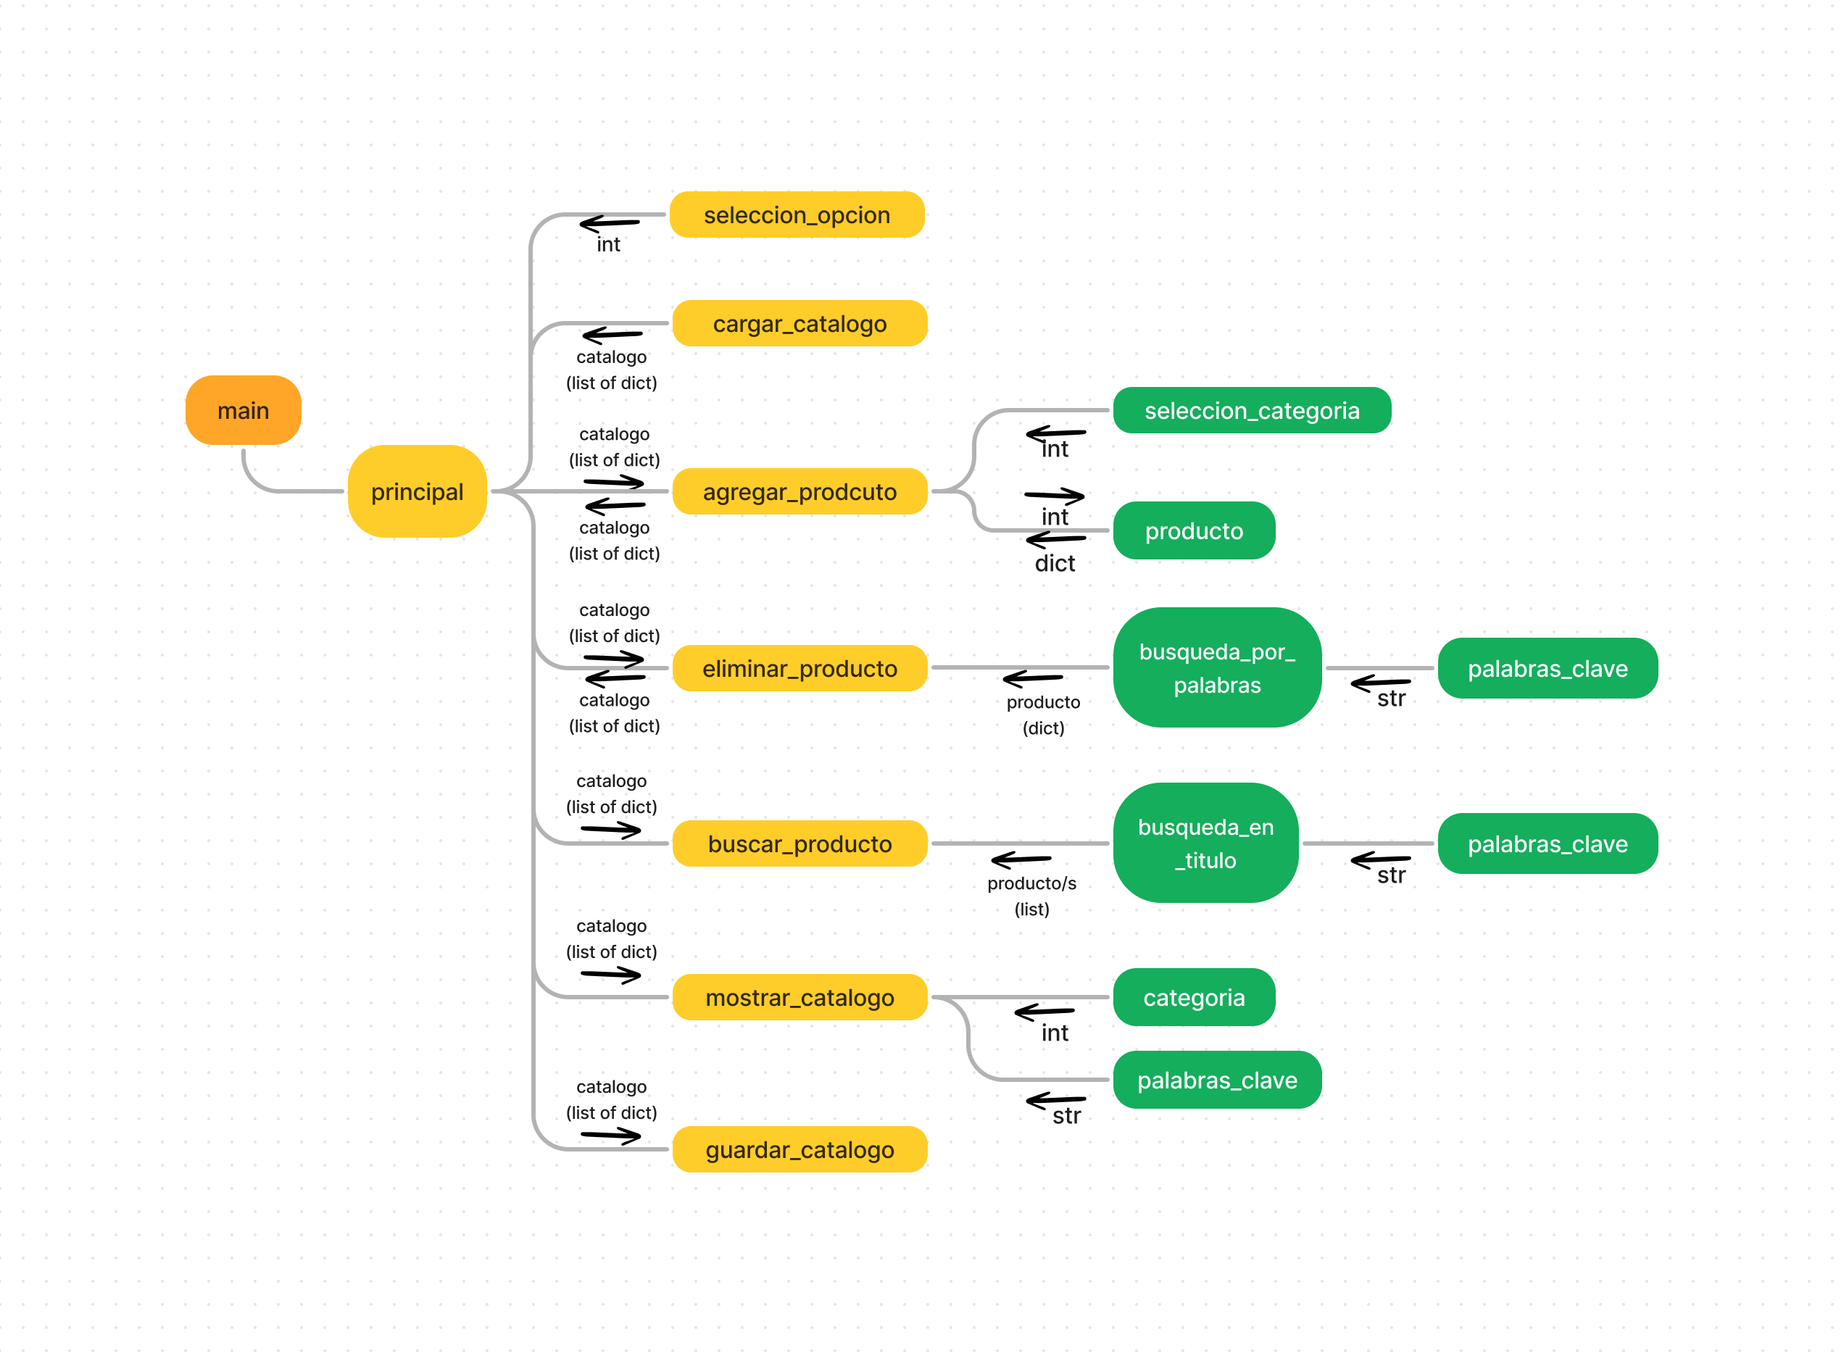
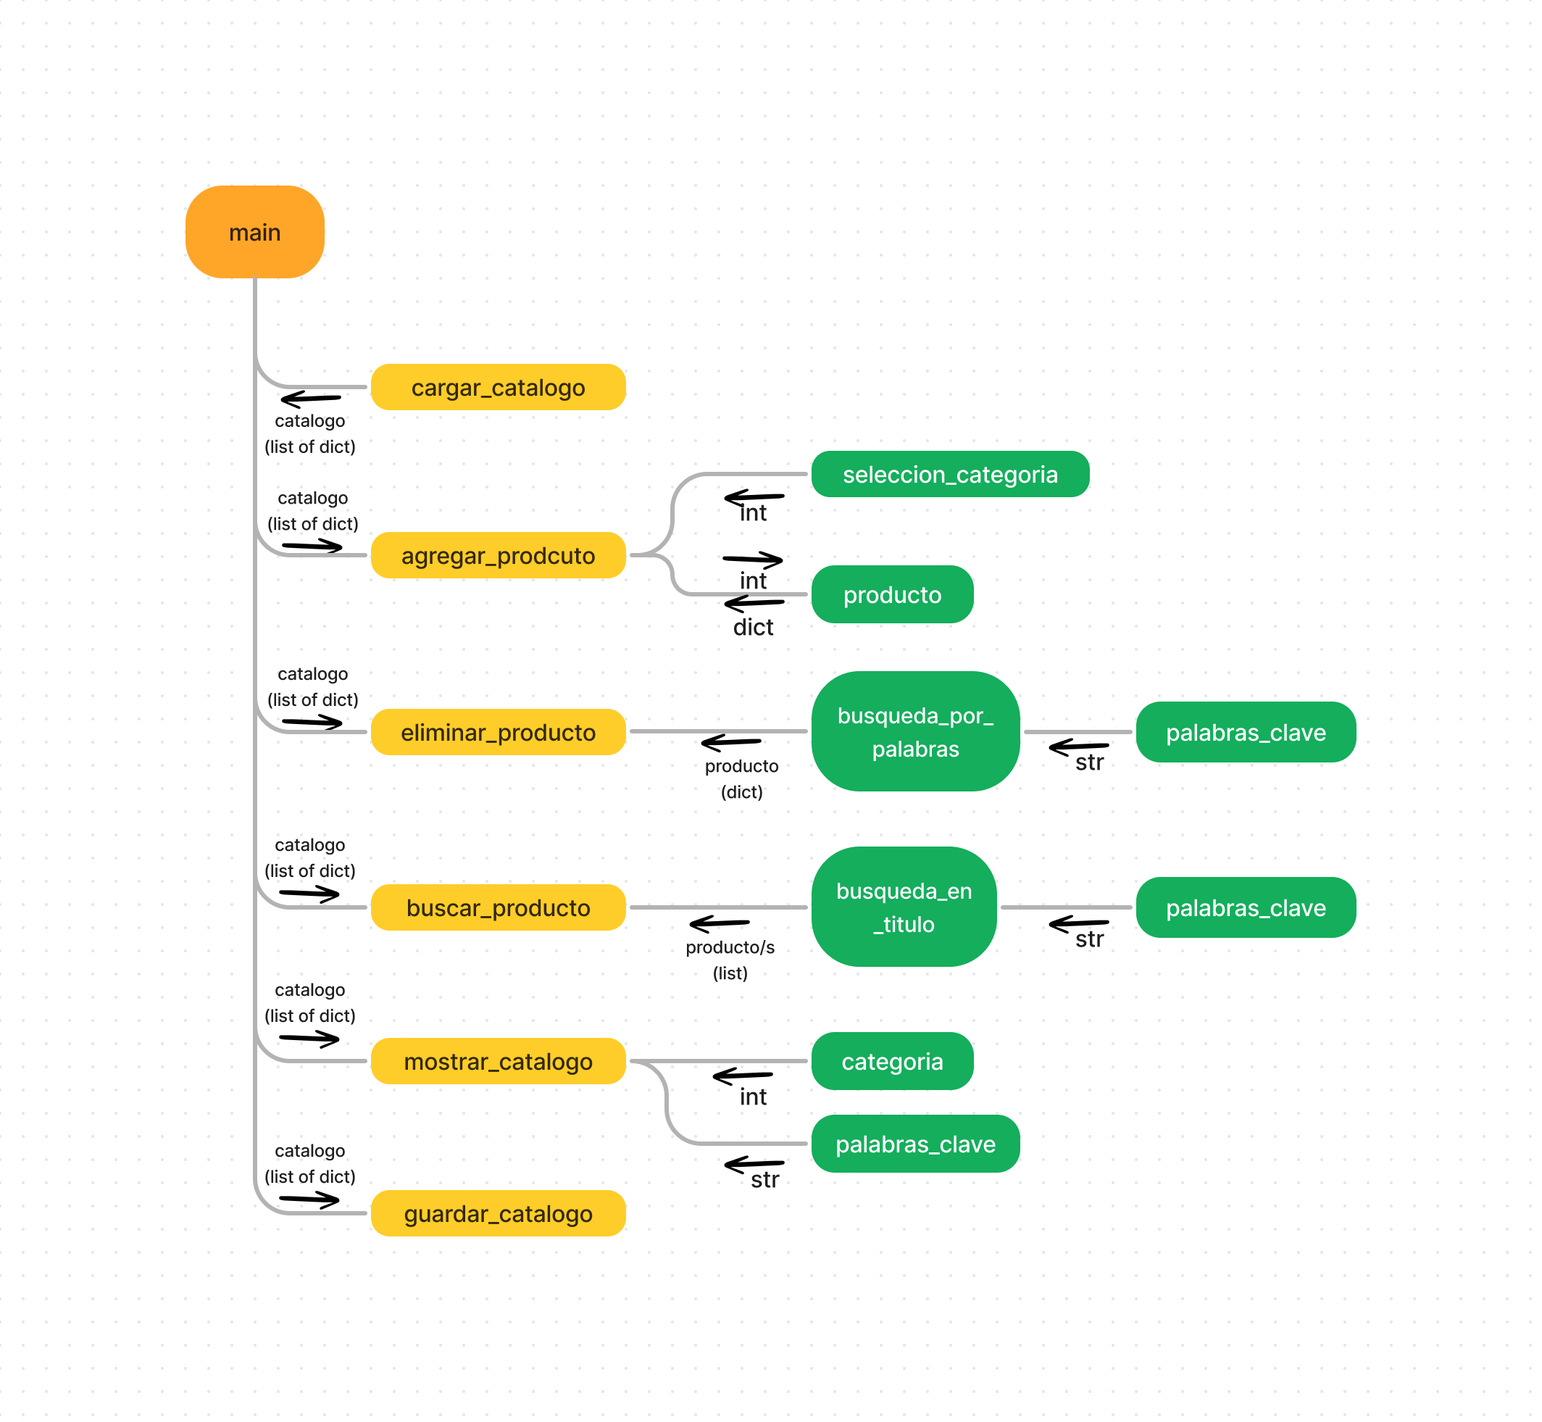
Second review

Changed region(s): [[0.093, 0.1238, 0.8994, 0.8975], [0.2791, 0.1238, 0.5273, 0.1857]]

diff --git a/menu.py b/menu.py
@@ -103,7 +103,7 @@ def agregar_producto(catalogo):
             catalogo = catalogo_utils.agregar_producto_catalogo(catalogo, valor_opcion, producto)
         else:
             # Si se selecciona la opción 5, vuelve al menú principal
-            principal()
+            return
     except Exception as e:
         # Captura y muestra cualquier excepción generada durante la ejecución
         print(str(e))
@@ -125,7 +125,7 @@ def eliminar_producto(catalogo):
         palabras_clave = input('Ingrese palabras clave separadas por espacios: ').split()
         # Obtiene una lista de todos los productos del catálogo utilizando la función obtener_lista_productos del módulo catalogo_utils
         lista_productos = catalogo_utils.obtener_lista_productos(catalogo)
-        # Busca y elimina productos utilizando la función buscar_serie_recursivo del módulo catalogo_utils
+        # Busca y elimina productos utilizando la función buscar_y_eliminar_prodcuto del módulo catalogo_utils
         catalogo_utils.buscar_y_eliminar_producto(lista_productos, palabras_clave, catalogo)
     except Exception as e:
         # Captura y muestra cualquier excepción generada durante la ejecución
@@ -167,7 +167,7 @@ def mostrar_catalogo(catalogo):
         seleccion, _ = seleccion_opciones(opciones)
         if seleccion == 6:
             # Si la opción seleccionada es 6, regresa al menú principal
-            principal()
+            return
         elif seleccion == 5:
             # Si la opción seleccionada es 5, muestra todos los productos del catálogo utilizando la función mostrar_productos() del módulo catalogo_utils
             catalogo_utils.mostrar_productos(catalogo)
@@ -208,43 +208,38 @@ def guardar_catalogo(catalogo):
     # Llama a la función del módulo catalogo_utils para guardar el catálogo en un archivo
     catalogo_utils.guardar_catalogo_archivo(catalogo)
 
-
-def principal(catalogo):
-    """
-        Menu principal el cual despliega las opciones de manipulacion de catalogo
-    """
-    while True:
-        # Obtiene las opciones del menú
-        opciones = opciones_menu(0)
-        # Muestra el título del menú "Menú Principal" y las opciones disponibles
-        plantilla_menu('Menú Principal', opciones)
-        # Permite al usuario seleccionar una opción
-        seleccion, _ = seleccion_opciones(opciones)
-        if seleccion == 1:
-            # Llama a la función agregar_producto(catalogo) si la opción seleccionada es 1
-            agregar_producto(catalogo)
-        elif seleccion == 2:
-            # Llama a la función buscar_producto(catalogo) si la opción seleccionada es 2
-            buscar_producto(catalogo)
-        elif seleccion == 4:
-            # Llama a la función mostrar_catalogo(catalogo) si la opción seleccionada es 4
-            mostrar_catalogo(catalogo)
-        elif seleccion == 3:
-            # Llama a la función eliminar_producto(catalogo) si la opción seleccionada es 3
-            eliminar_producto(catalogo)
-        elif seleccion == 5:
-            # Verifica si el catálogo ha sido cargado y llama a la función cargar_catalogo() si no ha sido cargado antes
-            if catalogo is None:
-                print('En caso de no contar con un archivo, por favor solo ponga el nombre deseado para crear uno.')
-                catalogo = cargar_catalogo()
-            else:
-                print('El catálogo ya ha sido cargado.')
-        elif seleccion == 6:
-            # Llama a la función guardar_catalogo(catalogo) para guardar el catálogo en un archivo
-            # Luego, imprime "Hasta luego" y finaliza el bucle
-            guardar_catalogo(catalogo)
-            print('Hasta luego')
-            break
-        elif seleccion == 7:
-            # Finaliza el bucle y termina la ejecución del programa si la opción seleccionada es 7
-            break
+liiiist = [
+    {'Pelicula': [
+        {'Titulo': 'Spider Man: de regreso a casa', 'Actor/a principal': '  Tom Holland.', 'Director/a': 'Jon Watts', 'Año': '2017', 'Costo Venta': '233', 'Costo Renta': '50'}, 
+        {'Titulo': 'Spider Man: Far From Home', 'Actor/a principal': 'Tom Holland.', 'Director/a': 'Jon Watts', 'Año': '2019', 'Costo Venta': '333', 'Costo Renta': '210'}, {'Titulo': 'Spider Man: No Way Home', 'Actor/a principal': 'Tom Holland', 'Director/a': 'Jon Watts', 'Año': '2020', 'Costo Venta': '661', 'Costo Renta': '211'}, 
+        {'Titulo': 'spider man into the spider-verse 2', 'Actor/a principal': 'Peter Ramsey', 'Director/a': 'Bob Persichetti', 'Año': '2023', 'Costo Venta': '1000', 'Costo Renta': '500'}, 
+        {'Titulo': 'guardianes de la galaxia', 'Actor/a principal': 'Peter Quill', 'Director/a': 'James Gunn', 'Año': '2023', 'Costo Venta': '700', 'Costo Renta': '455'}, 
+        {'Titulo': 'Shrek', 'Actor/a principal': 'Shrek', 'Director/a': 'Andrew Adamson', 'Año': '200', 'Costo Venta': '666', 'Costo Renta': '212'}
+        ]
+     }, 
+     {'Serie': [
+         {'Titulo': 'como si fuera a la primera ves', 'Actor/a principal': 'Adam Sandler', 'Director/a': 'Peter Segal', 'Temporadas': '5', 'Costo Venta': '1000', 'Costo Renta': '500'}, 
+         {'Titulo': 'Son como niños', 'Actor/a principal': 'Kevin James', 'Director/a': 'Dennis Dugan', 'Temporadas': '4', 'Costo Venta': '700', 'Costo Renta': '300'}, 
+         {'Titulo': 'Yo los Declaro Marido y Larry', 'Actor/a principal': 'Adam Sandler', 'Director/a': 'Dennis Dugan', 'Temporadas': '1', 'Costo Venta': '566', 'Costo Renta': '210'}, 
+         {'Titulo': 'Grimm', 'Actor/a principal': 'David Giuntoli', 'Director/a': 'Ever After High', 'Temporadas': '6', 'Costo Venta': '1000', 'Costo Renta': '500'}, 
+         {'Titulo': 'Sexo/Vida', 'Actor/a principal': 'Sarah Shahi', 'Director/a': 'Rotten Tomatoes', 'Temporadas': '2', 'Costo Venta': '800', 'Costo Renta': '400'}, 
+         {'Titulo': 'Chucky', 'Actor/a principal': 'Jennifer Tilly', 'Director/a': 'George Donald Mancini', 'Temporadas': '2', 'Costo Venta': '1000', 'Costo Renta': '500'}, 
+         {'Titulo': 'Stranger Things', 'Actor/a principal': 'Millie Bobby Brown', 'Director/a': 'Matt Duffer Ross Duffer Shawn Levy', 'Temporadas': '4', 'Costo Venta': '1000', 'Costo Renta': '500'}
+         ]
+      }, 
+      {'Documental': [
+          {'Titulo': 'Nuestro padre', 'Director/a': 'donald cline', 'Tema': 'medicina', 'Año': '2022', 'Costo Venta': '1000', 'Costo Renta': '500'}, 
+          {'Titulo': 'El estafador de Tinder', 'Director/a': 'Simon Leviev', 'Tema': 'casos de la vida real', 'Año': '2023', 'Costo Venta': '1000', 'Costo Renta': '500'}, 
+          {'Titulo': 'Hongos fantasticos', 'Director/a': 'Paul Stamets', 'Tema': 'drogadiccion', 'Año': '2020', 'Costo Venta': '700', 'Costo Renta': '300'}, 
+          {'Titulo': 'Misha y los lobos', 'Director/a': 'Misha Defonseca', 'Tema': 'informativo', 'Año': '2021', 'Costo Venta': '900', 'Costo Renta': '450'}, 
+          {'Titulo': 'La vida en la escuela', 'Director/a': 'axel juarez', 'Tema': 'casos de la vida real', 'Año': '2023', 'Costo Venta': '1000', 'Costo Renta': '500'}
+          ]
+       }, 
+       {'Evento deportivo en vivo': [
+           {'Titulo': 'UEFA Champions League ', 'Deporte': 'Fútbol', 'Fecha': '10/06/2023', 'Hora': '13:00', 'Lugar': 'paris', 'Costo Venta': '1000'}, 
+           {'Titulo': 'Super Bowl', 'Deporte': 'Fútbol Americano', 'Fecha': '10/09/2023', 'Hora': '14:00', 'Lugar': 'Estados unidos', 'Costo Venta': '1000'}, 
+           {'Titulo': 'Finales de la NBA', 'Deporte': 'Basketball', 'Fecha': '10/02/2023', 'Hora': '12:00', 'Lugar': 'Estados Unidos', 'Costo Venta': '1000'}, 
+           {'Titulo': 'Mundial de Fórmula 1', 'Deporte': 'Carreras', 'Fecha': '1/02/2023', 'Hora': '17:00', 'Lugar': 'italia', 'Costo Venta': '1000'}
+           ]
+        }
+    ]

diff --git a/catalogo.py b/catalogo.py
@@ -1,11 +1,47 @@
-import menu
+import menu as UserInterface
 catalogo = None
 
-def main():
-    # Se define catalogo como variable global para poder manejar el catalogo a lo largo de la ejecucion del programa
-    global catalogo 
-    # Se llama a la función principal del módulo "menu"
-    menu.principal(catalogo)
 
-# Llama a la función main para iniciar el programa
+def main():
+    """
+        Menu principal el cual despliega las opciones del programa (agregar/eliminar/buscar un prodcuto y mostrar/cargar/guardar un catalogo)
+    """
+    global catalogo
+    while True:
+        # Obtiene las opciones del menu
+        opciones = UserInterface.opciones_menu(0)
+        # Muestra el titulo del menu "Menu Principal" y las opciones disponibles
+        UserInterface.plantilla_menu('Menú Principal', opciones)
+        # Permite al usuario seleccionar una opcion
+        seleccion, _ = UserInterface.seleccion_opciones(opciones)
+        if seleccion == 1:
+            #Llama a la funcion agregar_producto(catalogo) si la opcion seleccionada es 1
+            UserInterface.agregar_producto(catalogo)
+        elif seleccion == 2:
+            # Llama a la función buscar_producto(catalogo) si la opción seleccionada es 2
+            UserInterface.buscar_producto(catalogo)
+        elif seleccion == 3:
+            # Llama a la función eliminar_producto(catalogo) si la opción seleccionada es 3
+            UserInterface.eliminar_producto(catalogo)
+        elif seleccion == 4:
+            # Llama a la función mostrar_catalogo(catalogo) si la opción seleccionada es 4
+            UserInterface.mostrar_catalogo(catalogo)
+        elif seleccion == 5:
+            # Verifica si el catálogo ha sido cargado y llama a la función cargar_catalogo() si no ha sido cargado antes
+            if catalogo is None:
+                print('En caso de no contar con un archivo, por favor solo ponga el nombre deseado para crear uno.')
+                catalogo = UserInterface.cargar_catalogo()
+            else:
+                print('El catálogo ya ha sido cargado.')
+        elif seleccion == 6:
+            # Llama a la función guardar_catalogo(catalogo) para guardar el catálogo en un archivo
+            # Luego, imprime "Hasta luego" y finaliza el bucle
+            UserInterface.guardar_catalogo(catalogo)
+            print('Hasta luego')
+            break
+        elif seleccion == 7:
+            # Finaliza el bucle y termina la ejecución del programa si la opción seleccionada es 7
+            break
+
+
 main()

diff --git a/catalogo_utils.py b/catalogo_utils.py
@@ -162,7 +162,7 @@ def agregar_prodcuto_catalogo(catalogo, categoria, producto):
             item[categoria].append(producto)
             # Detener la búsqueda una vez que se ha agregado el producto
             break
-    return catalogo # Devolver el catálogo actualizado
+    return
 
 
 def formato_impresion_producto(producto):
@@ -214,7 +214,6 @@ def obtener_lista_productos(catalogo):
         for productos in categoria.values():
             # Agregar los productos a la lista_productos
             lista_productos.extend(productos)
-    # Devolver la lista de productos
     return lista_productos
 
 

diff --git a/README.md b/README.md
@@ -4,7 +4,8 @@
 
 ## Descripcion General del Proyecto
 
-El presente proyecto tiene como objetivo principal actualizar el sistema de renta y venta de un servicio de streaming. Se requiere desarrollar un programa que permita una interaccion eficiente y sencilla que permitan la manipulacion del catalogo de productos.
+El presente proyecto tiene como objetivo principal actual
+izar el sistema de renta y venta de un servicio de streaming. Se requiere desarrollar un programa que permita una interaccion eficiente y sencilla que permitan la manipulacion del catalogo de productos.
 
 El sistema proporcionara una serie de menus que faciliten la manipulacion y gestion de los catalogos de produtos. Quien acceda al sistema podran acceder a algun catalogo, agregar/eliminar productos, realizar una busquedas y visualizar informacion detallada sobre los productos
 
@@ -30,21 +31,91 @@ Algunas de las funcionalidades del programa incluyen la carga inicial del catalo
 
 ## Funciones
 
-Click [aqui](./funciones.md) para ir a las funciones
+La funcion principal o _main()_ se encuentra alojada en el script 'catalogo.py'.
+
+En este mismo script se importa el modulo de *menu* que maneja toda la interfaz del sistema y este mismo conecta con el modulo *catalogo_utils* que se encarga del funcionamiento de la manipulacion del catalogo.
+
+Se inicializa el catalogo en None
+
+  ```python
+    import menu as UserInterface
+
+    catalogo = None
+  ```
+
+### _**main()**_
+
+La funcion main es la que va a dar inicio a todo el programa siendo esta la que despliega el menu principal
+
+Se establece la variable catalogo global, con ello se permite su manipulacion a lo largo de la ejecucion del programa ademas de que al inicio de cada ejecucion del programa se pueda verificar si hay un catalogo cargado en el sistema.
+
+  ```python
+    def main():
+      global catalogo
+      while True:
+          # Obtiene las opciones del menu
+          opciones = UserInterface.opciones_menu(0)
+          # Muestra el titulo del menu "Menu Principal" y las opciones disponibles
+          UserInterface.plantilla_menu('Menú Principal', opciones)
+          # Permite al usuario seleccionar una opcion
+          seleccion, _ = UserInterface.seleccion_opciones(opciones)
+          if seleccion == 1:
+              #Llama a la funcion agregar_producto(catalogo) si la opcion seleccionada es 1
+              UserInterface.agregar_producto(catalogo)
+          elif seleccion == 2:
+              # Llama a la función buscar_producto(catalogo) si la opción seleccionada es 2
+              UserInterface.buscar_producto(catalogo)
+          elif seleccion == 3:
+              # Llama a la función eliminar_producto(catalogo) si la opción seleccionada es 3
+              UserInterface.eliminar_producto(catalogo)
+          elif seleccion == 4:
+              # Llama a la función mostrar_catalogo(catalogo) si la opción seleccionada es 4
+              UserInterface.mostrar_catalogo(catalogo)
+          elif seleccion == 5:
+              # Verifica si el catálogo ha sido cargado y llama a la función cargar_catalogo() 
+              # si no ha sido cargado antes
+              if catalogo is None:
+                  print('En caso de no contar con un archivo, por favor solo ponga el nombre deseado para crear uno.')
+                  catalogo = UserInterface.cargar_catalogo()
+              else:
+                  print('El catálogo ya ha sido cargado.')
+          elif seleccion == 6:
+              # Llama a la función guardar_catalogo(catalogo) para guardar el catálogo en un archivo
+              # Luego, imprime "Hasta luego" y finaliza el bucle
+              UserInterface.guardar_catalogo(catalogo)
+              print('Hasta luego')
+              break
+          elif seleccion == 7:
+              # Finaliza el bucle y termina la ejecución del programa si la opción seleccionada es 7
+              break
+  ```
+Click [aqui](./funciones.md) ver las demas funciones de los modulos.
 
 ## Intruciones de uso
 
 1. Para hacer uso del sistema de catalogos, solo es necesario tener python instalado en el sistema, y tener descargados los archivos del repositorio
 2. Para iniciar el programa se abre la terminal donde se encuentran los archivos de este repositorio y escribir:
 
-    ```cmd
+  ```cmd
     py catalogo.py
-    ```
+  ```
 
 3. Una vez desplegado el menu principal, se tiene que cargar el archivo donde se encuentre el catalogo, esto escogiendo la opcion no.5 (De lo contrario no se podra accesar a las opciones de manipulacion de catalogo).
    <sub>Nota. El programa puede crear un achivo nuevo con un catalogo vacio si es que no se cuenta con uno.</sub>
-5. Para hacer uso de la manipulacion y control del catalogo basta con escoger una opcion(agregar,eliminar, mostrar catalogo, buscar) para despues seguir las instrucciones que el sistema pida.
-6. Una vez terminada la manipulacion del catalogo, se tendran que guardar los cambios hechos seleccionando la opcion no.6 del menu principal.
+4. Para hacer uso de la manipulacion y control del catalogo solo es necesaio escoger una opcion(agregar,eliminar, mostrar catalogo, buscar) para despues seguir las instrucciones que el sistema pida.
+5. Una vez terminada la manipulacion del catalogo, se tendran que guardar los cambios hechos seleccionando la opcion no.6 del menu principal.
+
+### Catalogo prueba almacenado en *catalogo_prueba.txt*
+
+| **Peliculas**                       | **Series**                    | **Documentales**       | **Eventos deportivos en vivo** |
+|-------------------------------------|-------------------------------|------------------------|--------------------------------|
+| Spider Man: De regreso a casa       | Como si fuera la primera vez  | Nuestro Padre          | UEFA Champions League          |
+| Spider Man: Far From Home           | Son como niños                | El estafador de Tinder | Super Bowl                     |
+| Spider Man: No Way Home             | Yo los declaro Marido y Larry | Hongos Fantasticos     | Finales de la NBA              |
+| Spider Man: Into the spider-verse 2 | Grimm                         | Misha y los lobos      | Mundial de Formula 1           |
+| Guardianes de la Galaxia            | Sexo/Vida                     | La vida en la escuela  |                                |
+| Sherk                               | Chucky                        |                        |                                |
+|                                     | Stranger Things               |                        |                                |
 
 ## Comentarios sobre la implementacion
 
@@ -57,8 +128,10 @@ El programa satisface los requerimentos, aunque hay ciertas excepciones y limita
 - El sistema trabaja con un catalgo y estrucutra especifica para todos los productos, si se deseara expandir el catalogo para incluir mas categorias, se tienen que hacer varias modificaciones adicionales para que se pueda escalar.
 
 En cuanto a caracteristicas del programa, ademas de contar con las opciones de manipulacion de catalogo, el sistema cuenta con algunos agregados como:
+
 - Verificacion de catalogo cargado: Esta caracteristica no deja escoger alguna opcion para la manipulacion del catalogo hasta que se carge uno, y esto fue asi por la siguiente implementacion.
 - Estructura de datos: Para que el sistema pueda funcionar, el archivo con el que se inicie un catalogo debe de tener la estrucutra que maneja el catalogo, debido a esto es que se implemento en la funcion de cargar catalogo la creacion un archivo vacio(si es que no se cuenta con uno) con un catalogo vacio para poder usar el programa adeacuadamente
+
 ### Respecto a la implementacion
 
 Para la implementacion fue de gran ayuda un diagrama de estrcutura tan sencillo, aunque durante la creacion de los modulos y las funciones, para dejar mas manejable el codigo se tuvieron que crear muchas mas funciones que en escencia se entienden que pasan en el diagrama, pero en la implementacion resultaba mas facil separar el codigo en partes aun mas pequenas.

diff --git a/funciones.md b/funciones.md
@@ -355,27 +355,4 @@
 
           - catalogo (list): Catálogo de productos.
 
-      No regresa ningun valor
-
-- ### _**principal**_
-
-          Menu principal el cual despliega las opciones de manipulacion de catalogo
-
-      _Argumentos:_
-
-          catalogo (list): Catálogo de productos.
-
-      No regresa ningun valor
-
-- ## Catalogo
-
-  Se inicia una variable catalogo en None
-
-  - ### _**main**_
-
-          La funcion main es con la que va a dar inicio a todo el programa.
-          Y se establece la variable catalogo global, con ello se permite su manipulacion a lo largo de la ejecucion del programa.
-
-      _Variables:_
-
-         - catalogo: None
+      No regresa ningun valor.
